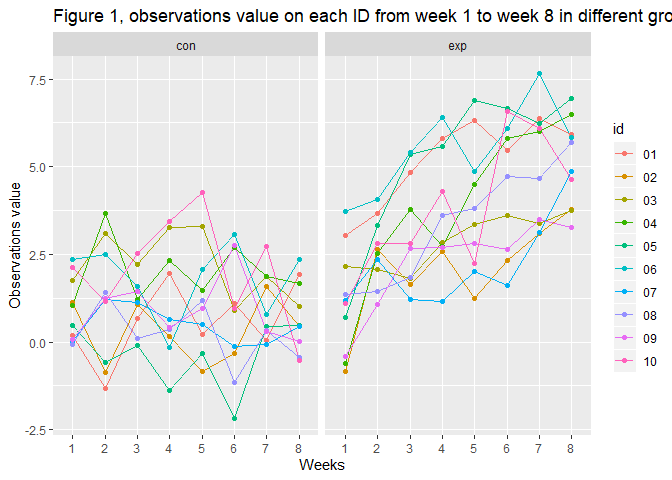
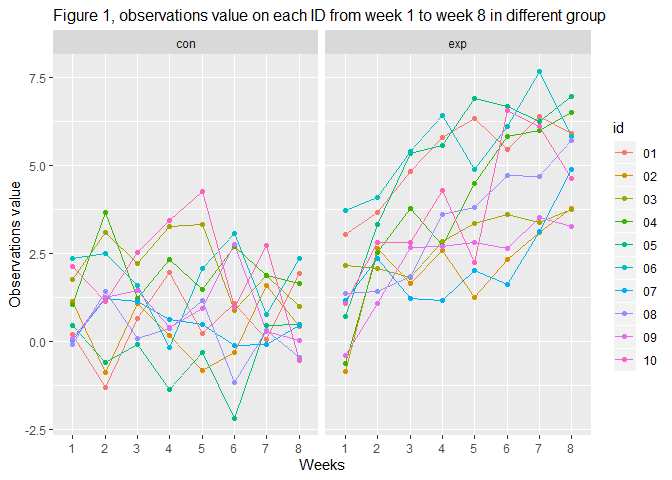
adjust the text size of title

diff --git a/p8105_hw5_yh2736.md b/p8105_hw5_yh2736.md
@@ -112,7 +112,10 @@ problem2_dataset %>%
     title = "Figure 1, observations value on each ID from week 1 to week 8 in different group"
   ) +
   xlab("Weeks") +
-  ylab("Observations value")
+  ylab("Observations value") +
+  theme(
+    plot.title = element_text(size = 12)
+  )
 ```
 
 ![](p8105_hw5_yh2736_files/figure-gfm/unnamed-chunk-3-1.png)<!-- -->
@@ -250,6 +253,7 @@ left_join(propo_dataset, mean_dataset) %>%
     ## Joining, by = "beta1"
 
 ![](p8105_hw5_yh2736_files/figure-gfm/unnamed-chunk-5-1.png)<!-- -->
+
 Given the same sample size, with the increase of effect size, the power
 of the test increase. explain:
 
